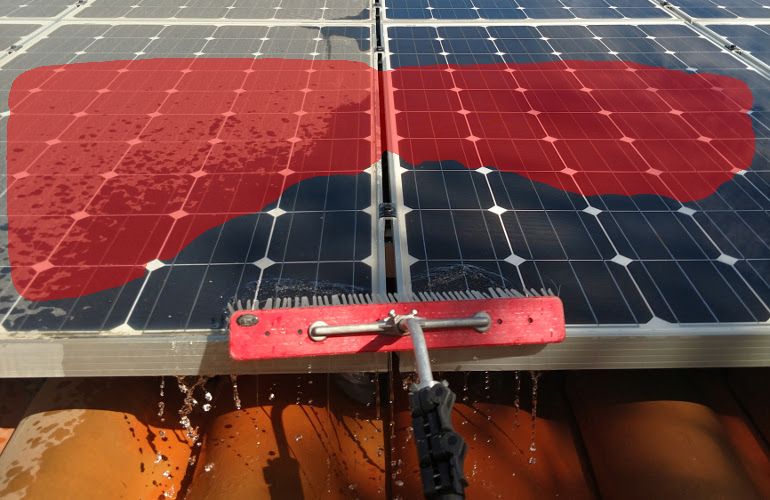
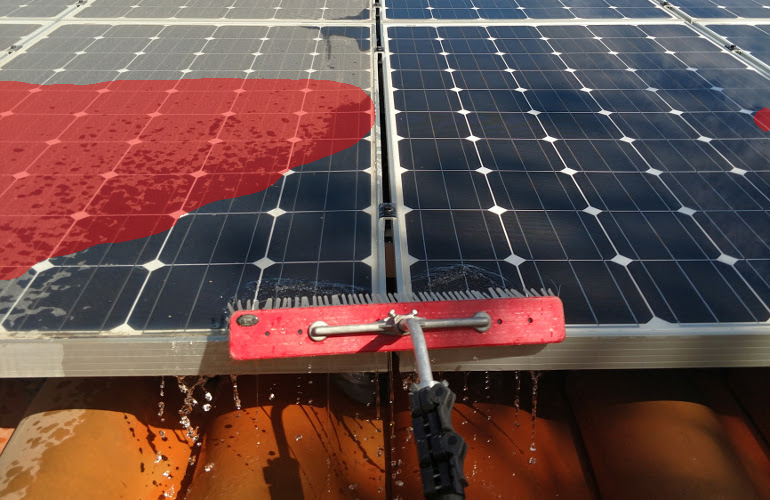
Upgrade soiling segmenter to a pretrained ResNet-34 U-Net
Swap the from-scratch encoder for an ImageNet-pretrained ResNet-34 (decoder +
skip connections unchanged); arch is config-selectable (resnet34_unet | unet) and
recorded in the checkpoint bundle.

Test Dice 0.38 -> 0.47, IoU 0.30 -> 0.38, and the mask is far better localised:
on the example image it now traces the left-side dust (coverage 12.8% vs truth
16.6%) instead of the old crude top band (28%).

Changed region(s): [[0.0, 0.09, 1.0, 0.6]]

diff --git a/src/solarsoil/models/segmentation.py b/src/solarsoil/models/segmentation.py
@@ -1,8 +1,8 @@
 """Soiling segmentation (U-Net) → measured per-image dirt coverage.
 
-Trains a compact, from-scratch **U-Net** on the dust-segmentation dataset
-(image -> binary dust mask, 0=background / 1=dust) to predict *which pixels are
-soiled*. This upgrades the classical, approximate Track-A soiling index
+Trains a **U-Net** (from-scratch, or with an ImageNet-pretrained ResNet-34 encoder)
+on the dust-segmentation dataset (image -> binary dust mask, 0=background / 1=dust)
+to predict *which pixels are soiled*. This upgrades the classical, approximate Track-A soiling index
 (:mod:`solarsoil.severity`) into a **measured coverage percentage** plus a
 pixel-level localisation of the dirt.
 
@@ -81,6 +81,64 @@ class UNet(nn.Module):
         x = self.u2(torch.cat([self.up2(x), c2], 1))
         x = self.u1(torch.cat([self.up1(x), c1], 1))
         return self.out(x)  # logits (B, 1, H, W)
+
+
+class _Up(nn.Module):
+    def __init__(self, c_in: int, c_skip: int, c_out: int) -> None:
+        super().__init__()
+        self.up = nn.ConvTranspose2d(c_in, c_out, 2, stride=2)
+        self.conv = _DoubleConv(c_out + c_skip, c_out)
+
+    def forward(self, x, skip):
+        x = self.up(x)
+        if x.shape[-2:] != skip.shape[-2:]:
+            x = torch.nn.functional.interpolate(x, size=skip.shape[-2:], mode="bilinear", align_corners=False)
+        return self.conv(torch.cat([x, skip], 1))
+
+
+class ResUNet(nn.Module):
+    """U-Net with an ImageNet-pretrained ResNet-34 encoder (input must be /32)."""
+
+    def __init__(self, out_ch: int = 1, pretrained: bool = True) -> None:
+        super().__init__()
+        from torchvision import models
+
+        weights = models.ResNet34_Weights.IMAGENET1K_V1 if pretrained else None
+        r = models.resnet34(weights=weights)
+        self.input = nn.Sequential(r.conv1, r.bn1, r.relu)  # 64ch, H/2
+        self.maxpool = r.maxpool
+        self.layer1, self.layer2 = r.layer1, r.layer2  # 64ch H/4, 128ch H/8
+        self.layer3, self.layer4 = r.layer3, r.layer4  # 256ch H/16, 512ch H/32
+        self.up4 = _Up(512, 256, 256)
+        self.up3 = _Up(256, 128, 128)
+        self.up2 = _Up(128, 64, 64)
+        self.up1 = _Up(64, 64, 64)
+        self.final_up = nn.ConvTranspose2d(64, 32, 2, stride=2)
+        self.out = nn.Sequential(_DoubleConv(32, 32), nn.Conv2d(32, out_ch, 1))
+
+    def forward(self, x):
+        x0 = self.input(x)
+        x1 = self.layer1(self.maxpool(x0))
+        x2 = self.layer2(x1)
+        x3 = self.layer3(x2)
+        x4 = self.layer4(x3)
+        d = self.up4(x4, x3)
+        d = self.up3(d, x2)
+        d = self.up2(d, x1)
+        d = self.up1(d, x0)
+        return self.out(self.final_up(d))
+
+
+def build_segmenter(cfg: dict) -> nn.Module:
+    if cfg.get("arch", "unet") == "resnet34_unet":
+        return ResUNet(pretrained=cfg.get("pretrained", True))
+    return UNet(base=int(cfg.get("base_channels", 32)))
+
+
+def _model_from_bundle(bundle: dict) -> nn.Module:
+    if bundle.get("arch", "unet") == "resnet34_unet":
+        return ResUNet(pretrained=False)
+    return UNet(base=bundle.get("base_channels", 32))
 
 
 # --------------------------- data ---------------------------
@@ -190,7 +248,7 @@ def train_segmenter(cfg: dict) -> dict:
         loaders[sp] = DataLoader(ds, batch_size=int(cfg.get("batch_size", 16)),
                                  shuffle=(sp == "train"), num_workers=int(cfg.get("num_workers", 2)))
 
-    model = UNet(base=base).to(device)
+    model = build_segmenter(cfg).to(device)
     opt = torch.optim.Adam(model.parameters(), lr=float(cfg.get("lr", 1e-3)))
     bce = nn.BCEWithLogitsLoss()
     epochs, patience = int(cfg.get("epochs", 15)), int(cfg.get("patience", 5))
@@ -214,7 +272,7 @@ def train_segmenter(cfg: dict) -> dict:
         vd, vi = _eval(model, loaders.get("val", loaders["train"]), device)
         logger.info("[%02d/%d] train loss %.4f | val dice %.4f iou %.4f", ep + 1, epochs, tot / max(n, 1), vd, vi)
         bundle = {"model_state_dict": model.state_dict(), "img_size": img_size,
-                  "base_channels": base, "task": "segmentation"}
+                  "base_channels": base, "arch": cfg.get("arch", "unet"), "task": "segmentation"}
         save_checkpoint(bundle, out_dir / "last.pth")
         if vd > best:
             best, wait = vd, 0
@@ -237,7 +295,7 @@ def train_segmenter(cfg: dict) -> dict:
 # --------------------------- inference / coverage ---------------------------
 def load_segmenter(model_path, device):
     bundle = load_checkpoint(model_path, map_location=device)
-    model = UNet(base=bundle.get("base_channels", 32))
+    model = _model_from_bundle(bundle)
     model.load_state_dict(bundle["model_state_dict"])
     model.to(device).eval()
     return model, bundle

diff --git a/README.md b/README.md
@@ -28,7 +28,7 @@ and segmentation, and Grad-CAM explainability — plus an interactive demo.
 | **Multi-class (hierarchical)** | clean / soiled {dust, bird-drop, snow} / damaged {physical, electrical} | `solarsoil.taxonomy` + configs |
 | **Classical IP baseline** | HSV colour + GLCM/LBP texture + edge features → SVM/RF, benchmarked vs the CNN | `features.classical` / `models.classical` |
 | **Severity / coverage** | classical soiling index + coverage map (Track A); DeepSolarEye power-loss CNN regression (Track B) | `severity` · `models.regression` |
-| **Soiling segmentation** | from-scratch **U-Net** → measured dust coverage % + pixel mask | `models.segmentation` |
+| **Soiling segmentation** | **ResNet-34 U-Net** (pretrained encoder) → measured dust coverage % + pixel mask | `models.segmentation` |
 | **Explainability** | from-scratch Grad-CAM heatmaps (also the weak-localisation signal for severity) | `explain.gradcam` |
 | **Interactive demo** | drop a photo → prediction + Grad-CAM + soiling overlay | `app/app.py` |
 
@@ -54,8 +54,8 @@ the deep-vs-classical discussion are in [`reports/results.md`](reports/results.m
 > map — and on the binary model it sometimes lands on the background (see
 > **Limitations** below).
 
-A **supervised U-Net** (trained on dust masks) now measures dust coverage directly —
-a clean panel reads 0% coverage, this dusty one ~28% (test Dice 0.38):
+A **ResNet-34 U-Net** (ImageNet-pretrained encoder) measures dust coverage directly —
+a clean panel reads 0%, this dusty one **12.8%** (truth 17%; test Dice 0.47):
 
 ![Measured dust segmentation](reports/figures/segmentation/Imgdirty_0_1_dustseg.png)
 

diff --git a/reports/results.md b/reports/results.md
@@ -97,13 +97,15 @@ python -m solarsoil.severity --image Data/Dusty --limit 25 --out-dir reports/fig
 
 ## Soiling segmentation — measured coverage (U-Net)
 
-A from-scratch U-Net trained on 1,279 image/dust-mask pairs (val 160, test 160)
-turns Track A's approximate index into a **measured dust coverage %** + a pixel
-mask. Test **Dice 0.38 · IoU 0.30** — modest (diffuse dust + noisy pseudo-labels
-make this hard, and the encoder is trained from scratch), but the coverage is
-directionally right: a clean panel reads **0.0%**, a dusty one **~28%** (truth 17%),
-and the mask lands on the soiled region. A pretrained-encoder U-Net, more epochs, or
-cleaner labels would raise the Dice — this is an honest from-scratch baseline.
+A U-Net with an **ImageNet-pretrained ResNet-34 encoder**, trained on 1,279
+image/dust-mask pairs (val 160, test 160), turns Track A's approximate index into a
+**measured dust coverage %** + a pixel mask. Test **Dice 0.47 · IoU 0.38** — the
+pretrained encoder lifts a from-scratch U-Net's 0.38 / 0.30. Dust segmentation is
+genuinely hard (diffuse, fuzzy boundaries + noisy pseudo-labels cap it), but the
+estimate is now well-localised: a clean panel reads **0.0%**, the dusty example
+**12.8%** (truth 16.6%; the from-scratch net over-predicted ~28%), and the mask
+traces the soiled *left* side rather than a crude top band. More epochs or cleaner
+human labels would push it further.
 
 ![Predicted dust mask (measured coverage)](figures/segmentation/Imgdirty_0_1_dustseg.png)
 
